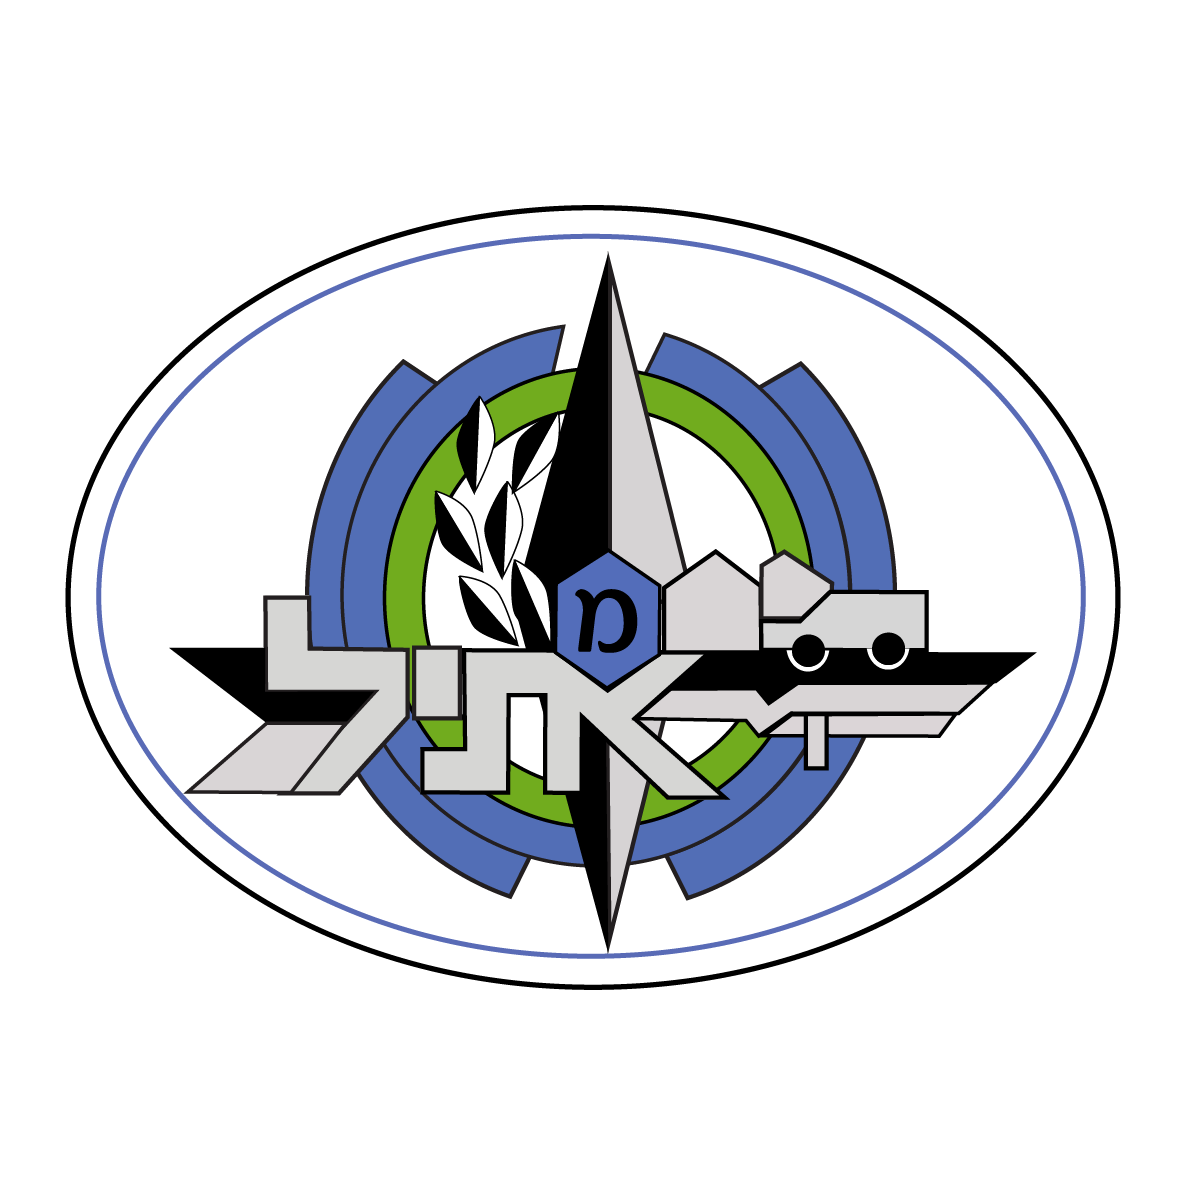
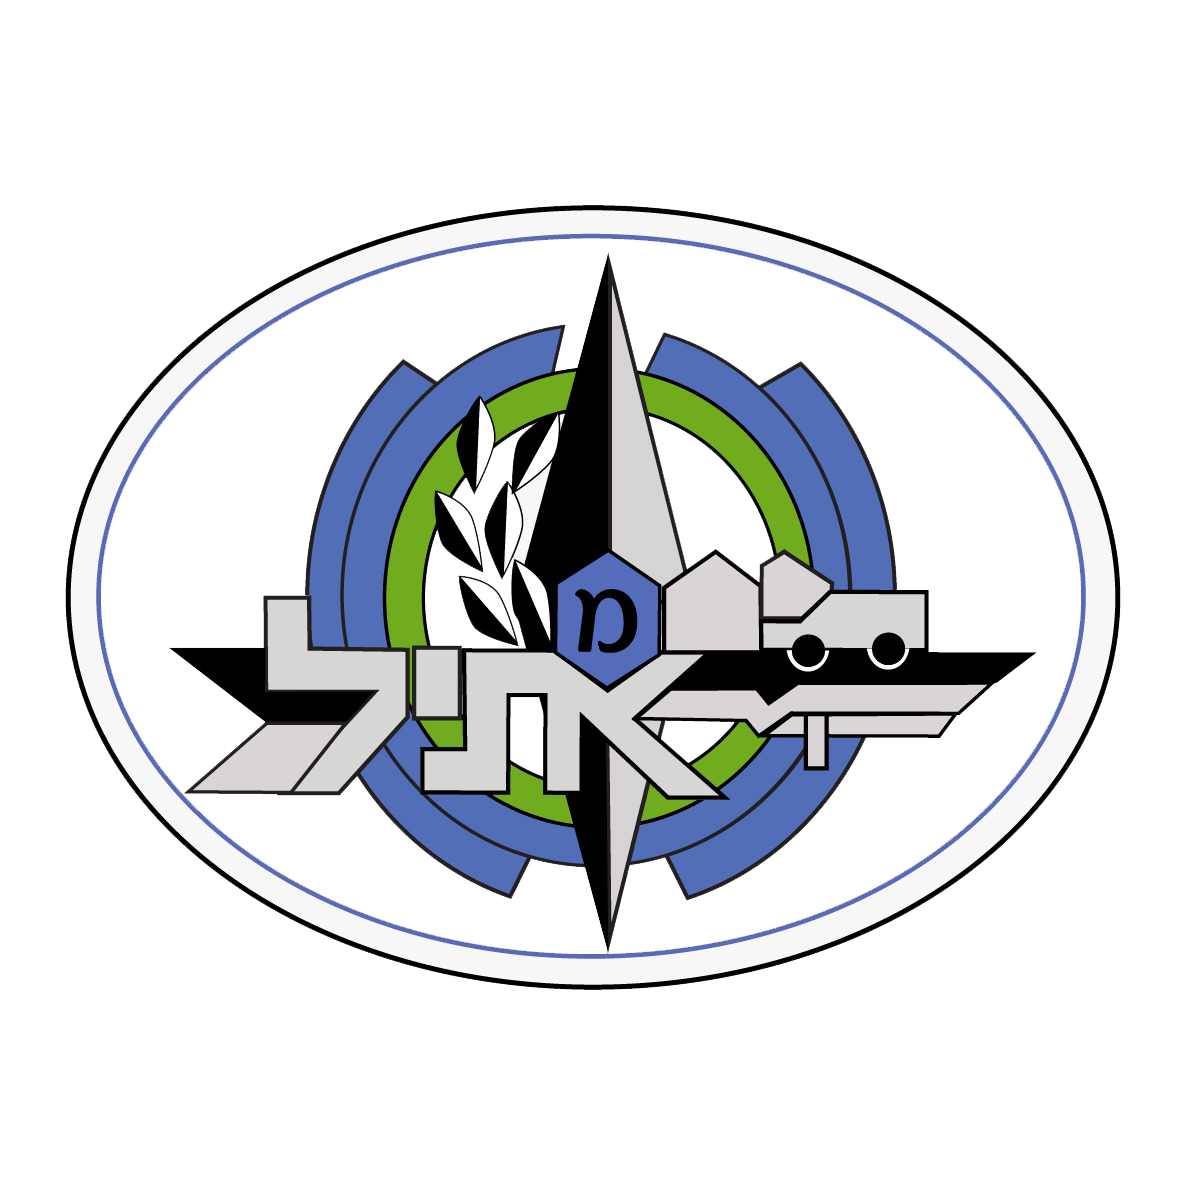
add atal

diff --git a/index.html b/index.html
@@ -79,6 +79,9 @@
         <a href="symbols\led-white.png" download>
             <img src="symbols\led-white.png" alt="מדור למידה דיגיטלית לבן לד" width=130>
         </a>
+        <a href="symbols/atal.png" download>
+            <img src="symbols\led-white.png" alt="אתל אגף התמיכה הלוגיסטית" width=130>
+        </a>
     </div>
 </body>
 
